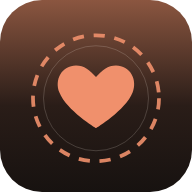
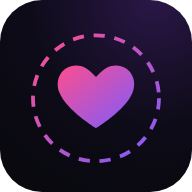
Thème Minuit par défaut et icône assortie
Claude-Session: https://claude.ai/code/session_01Jq5J5v7oqThW5yQzaRz6AF

diff --git a/js/app.js b/js/app.js
@@ -381,14 +381,14 @@ function applyFont(id) {
   else document.documentElement.removeAttribute('data-font');
   pref.set('font', id);
 }
-const currentTheme = () => document.documentElement.getAttribute('data-theme') || 'creme';
+const currentTheme = () => document.documentElement.getAttribute('data-theme') || 'minuit';
 function applyTheme(id) {
   const t = THEMES.find((x) => x.id === id) || THEMES[0];
   document.documentElement.setAttribute('data-theme', t.id);
   document.querySelector('meta[name=theme-color]')?.setAttribute('content', t.bg);
   pref.set('theme', t.id);
 }
-applyTheme(pref.get('theme', 'creme'));
+applyTheme(pref.get('theme', 'minuit'));
 
 function themeSheet() {
   sheet((close) => {

diff --git a/index.html b/index.html
@@ -5,11 +5,11 @@
   <meta name="viewport" content="width=device-width, initial-scale=1, viewport-fit=cover">
   <title>Cœur All In</title>
   <meta name="description" content="Pas de photo, pas de swipe. Un soir, une personne, et des cartes pour jouer le rendez-vous.">
-  <meta name="theme-color" content="#faf6f1">
+  <meta name="theme-color" content="#09090f">
   <script>
     // Thème appliqué avant l'affichage pour éviter un flash.
     (function () {
-      var t = 'creme';
+      var t = 'minuit';
       try { t = JSON.parse(localStorage.getItem('cai.theme')) || t; } catch (e) {}
       document.documentElement.setAttribute('data-theme', t);
       var f = '';

diff --git a/sw.js b/sw.js
@@ -1,5 +1,5 @@
 // Service worker : appli disponible hors ligne + clic sur les notifications.
-const VERSION = 'cai-v5';
+const VERSION = 'cai-v6';
 const SHELL = [
   './', 'index.html', 'manifest.webmanifest', 'css/app.css',
   'js/app.js', 'js/config.js', 'js/content.js', 'js/timeline.js', 'js/matching.js', 'js/date-logic.js',
